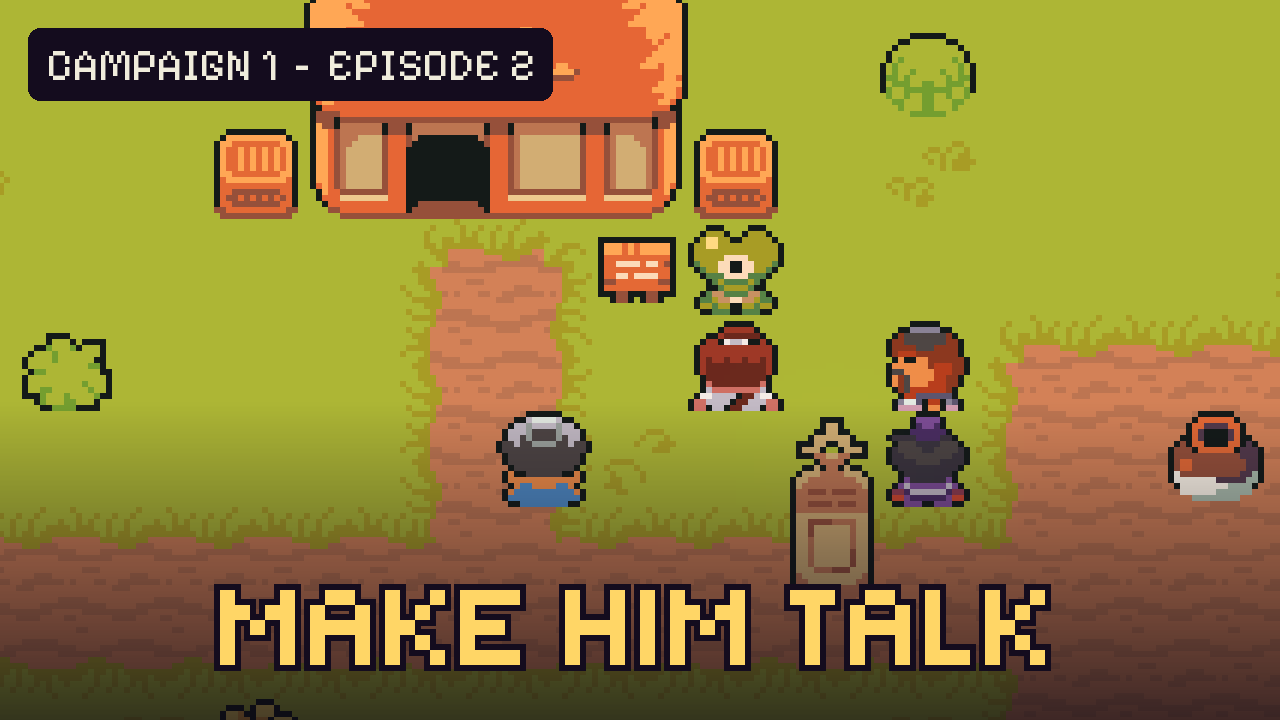
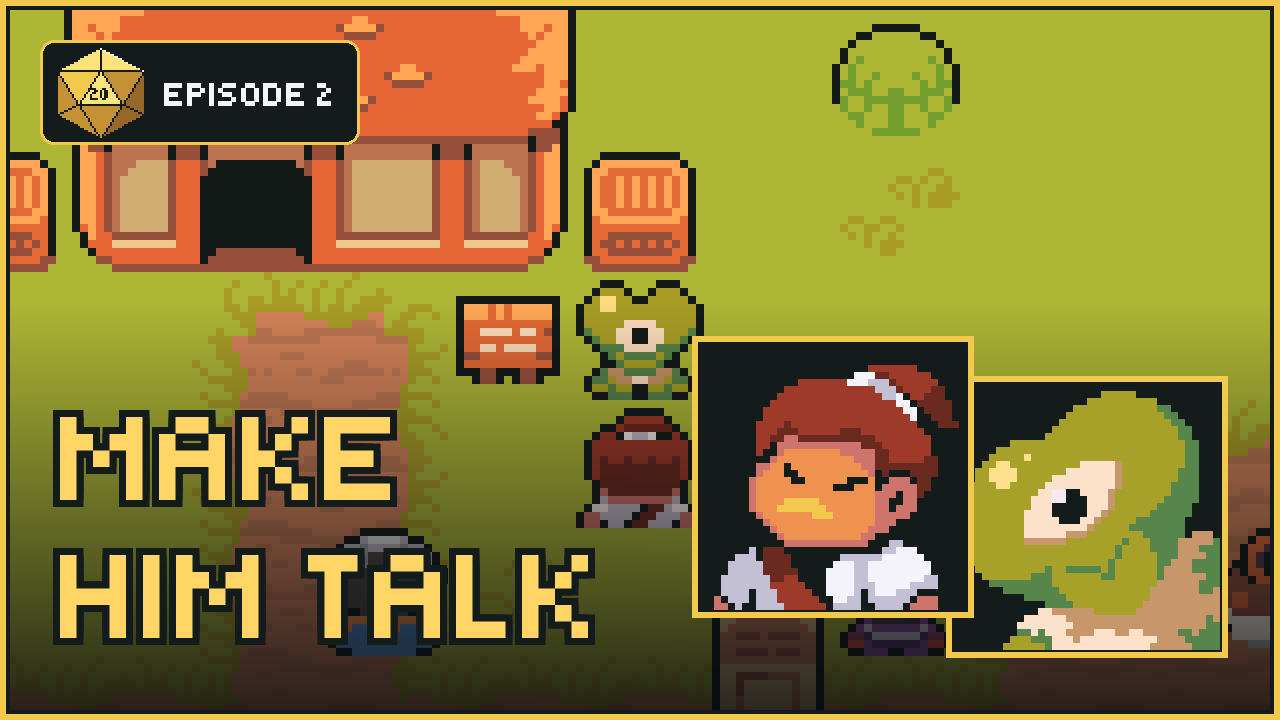
Thumbnails: zoomed scene, big portraits, channel badge; per-episode choices in assets/thumbnails
Claude-Session: https://claude.ai/code/session_01FnvpZbiPWMMNRDJyypsj8P

diff --git a/pqc/pipeline/packaging.py b/pqc/pipeline/packaging.py
@@ -6,6 +6,7 @@ the timeline, the seed and the dice-verification line, and the licence credits.
 """
 from __future__ import annotations
 
+import json
 from pathlib import Path
 
 from ..state import ROOT
@@ -78,14 +79,50 @@ def thumbnail_time(moment: str | None, timeline: dict, cue_times: list[float], p
     return cue_times[len(cue_times) // 2]
 
 
-def render_thumbnail(timeline: dict, t: float, text: str, episode_label: str, out: Path, assets=None) -> Path:
-    """Render the frame at ``t``, upscale to 1280x720 and add the title text."""
+THUMB_SPECS = ROOT / "assets" / "thumbnails"
+
+
+def thumbnail_spec(episode_id: str) -> dict:
+    """Hand-tuned choices for an episode's thumbnail (assets/thumbnails/c01.json):
+    ``text`` (overrides the packager's), ``faces`` (actor ids whose portraits are shown),
+    ``focus`` (actor the scene zooms on) and ``t`` (frame time, overrides the moment)."""
+    f = THUMB_SPECS / f"{episode_id[:3].lower()}.json"
+    if not f.exists():
+        return {}
+    return json.loads(f.read_text()).get(episode_id, {})
+
+
+def _split_title(d, text: str, font, width: int) -> list[str]:
+    words = text.split()
+    if d.textlength(text, font=font) <= width or len(words) < 2:
+        return [text]
+    best = None
+    for k in range(1, len(words)):
+        a, b = " ".join(words[:k]), " ".join(words[k:])
+        wa, wb = d.textlength(a, font=font), d.textlength(b, font=font)
+        if wa <= width and wb <= width:
+            score = abs(wa - wb)
+            if best is None or score < best[0]:
+                best = (score, [a, b])
+    return best[1] if best else [text]
+
+
+def render_thumbnail(timeline: dict, t: float, text: str, episode_label: str, out: Path, assets=None,
+                     spec: dict | None = None) -> Path:
+    """1280x720 thumbnail: the scene zoomed in on the moment, the episode's faces as big
+    portraits on the right, two to four big words bottom-left, and the channel badge."""
     from PIL import Image, ImageDraw
 
+    from ..render import brand
     from ..render.assets import Assets
     from ..render.timeline import Runner
+    from ..render.ui import draw_text
 
     assets = assets or Assets()
+    spec = spec or {}
+    text = spec.get("text", text)
+    if "t" in spec:
+        t = float(spec["t"])
     r = Runner(timeline, assets)
     target = int(t * r.stage.fps)
     frame = None
@@ -95,28 +132,75 @@ def render_thumbnail(timeline: dict, t: float, text: str, episode_label: str, ou
             break
     if frame is None:
         frame = r.stage.render(clean=True)
-    img = frame.convert("RGB").resize((1440, 810), Image.NEAREST).crop((80, 45, 1360, 765))
-    # Darken the lower third for the text.
+    st = r.stage
+    # Zoom: a 320x180 window of the 480x270 canvas around the focus, scaled 4x.
+    fx, fy = 240, 135
+    focus = spec.get("focus")
+    if focus in st.actors and st.actors[focus].visible:
+        cx, cy = st._camera()
+        fx, fy = (st.actors[focus].x - cx) * 2, (st.actors[focus].y - cy) * 2 - 10
+    x0 = int(min(max(fx - 160, 0), 480 - 320))
+    y0 = int(min(max(fy - 90, 0), 270 - 180))
+    img = frame.convert("RGBA").crop((x0, y0, x0 + 320, y0 + 180)).resize((1280, 720), Image.NEAREST)
+    # Shade: darker to the bottom-left so the text reads, and a thin frame.
     shade = Image.new("RGBA", img.size, (0, 0, 0, 0))
     d = ImageDraw.Draw(shade)
-    for y in range(400, 720):
-        d.line([(0, y), (1280, y)], fill=(10, 8, 20, int(190 * (y - 400) / 320)))
-    img = Image.alpha_composite(img.convert("RGBA"), shade)
+    for y in range(300, 720):
+        d.line([(0, y), (1280, y)], fill=(8, 10, 14, int(215 * (y - 300) / 420)))
+    img.alpha_composite(shade)
     d = ImageDraw.Draw(img)
-    big = assets.font_at("title", 120)
-    small = assets.font_at("text", 44)
+    d.rectangle((0, 0, 1279, 719), outline=brand.MID, width=6)
+    d.rectangle((6, 6, 1273, 713), outline=(20, 27, 27, 255), width=4)
+    # Portraits on the right.
+    faces = spec.get("faces", [])
+    px = 1280 - 60
+    fs = 7
+    for k, who in enumerate(reversed(faces)):
+        try:
+            face = assets.actor(who).faceset
+        except Exception:
+            face = None
+        if face is None:
+            continue
+        big = face.resize((38 * fs, 38 * fs), Image.NEAREST)
+        w = big.width
+        px -= w
+        py = 720 - w - 70 if len(faces) == 1 else 720 - w - 70 - (0 if k == 0 else 40)
+        if k:
+            px += 36
+        card = Image.new("RGBA", (w + 16, w + 16), (20, 27, 27, 255))
+        ImageDraw.Draw(card).rectangle((0, 0, w + 15, w + 15), outline=brand.MID, width=6)
+        card.alpha_composite(big, (8, 8))
+        img.alpha_composite(card, (px - 8, py - 8))
+        px -= 24
+    text_right = (px - 40) if faces else 1220
+    # Title: up to two lines of big gold letters with an ink outline.
     words = text.upper()
-    w = d.textlength(words, font=big)
-    if w > 1180:
-        big = assets.font_at("title", int(120 * 1180 / w))
-        w = d.textlength(words, font=big)
-    x, y = (1280 - w) / 2, 560
-    for dx in range(-6, 7, 3):
-        for dy in range(-6, 7, 3):
-            d.text((x + dx, y + dy), words, font=big, fill=(20, 12, 30))
-    d.text((x, y), words, font=big, fill=(255, 214, 102))
-    d.rounded_rectangle([28, 28, 28 + d.textlength(episode_label, font=small) + 36, 100], 12, fill=(20, 12, 30, 230))
-    d.text((46, 38), episode_label, font=small, fill=(240, 236, 220))
+    size = 132
+    while True:
+        big = assets.font_at("title", size)
+        lines = _split_title(d, words, big, text_right - 60)
+        if all(d.textlength(l, font=big) <= text_right - 60 for l in lines) or size <= 64:
+            break
+        size -= 8
+    lh = int(size * 1.05)
+    y = 720 - 60 - lh * len(lines)
+    for line in lines:
+        x = 60
+        for dx in range(-7, 8, 7):
+            for dy in range(-7, 8, 7):
+                d.text((x + dx, y + dy), line, font=big, fill=(20, 27, 27))
+        d.text((x, y), line, font=big, fill=(255, 214, 102))
+        y += lh
+    # Channel badge: the d20 mark and the episode number.
+    mark = brand.d20_mark(assets, 2)
+    small = assets.font_at("title", 36)
+    label = episode_label.split("-")[-1].strip() if "EPISODE" in episode_label else episode_label
+    lw = d.textlength(label, font=small)
+    d.rounded_rectangle((40, 40, 40 + mark.width + 24 + lw + 28, 40 + mark.height + 8), 14, fill=(20, 27, 27, 235),
+                        outline=brand.MID, width=3)
+    img.alpha_composite(mark, (52, 44))
+    draw_text(d, (52 + mark.width + 16, 44 + (mark.height - 36) // 2), label, small, (244, 242, 250, 255))
     out.parent.mkdir(parents=True, exist_ok=True)
     img.convert("RGB").save(out)
     return out

diff --git a/pqc/pipeline/episode.py b/pqc/pipeline/episode.py
@@ -227,7 +227,7 @@ def run_episode(cfg: EpisodeConfig, log=print) -> dict:
     # 5. Measure, render ----------------------------------------------------
     from ..render.assets import Assets
     from ..render.timeline import Runner
-    from .packaging import chapters, full_description, render_thumbnail, thumbnail_time
+    from .packaging import chapters, full_description, render_thumbnail, thumbnail_spec, thumbnail_time
     assets = Assets()
     runner = Runner(tl, assets)
     duration = runner.duration()
@@ -296,7 +296,7 @@ def run_episode(cfg: EpisodeConfig, log=print) -> dict:
     save_json(out / "packaging.json", pk_full)
     t_thumb = thumbnail_time(pk.get("thumbnail_moment"), tl, runner.cue_times, plan)
     render_thumbnail(tl, t_thumb, pk["thumbnail_text"], f"CAMPAIGN {cfg.campaign}  -  EPISODE {cfg.episode}", out / "thumbnail.png",
-                     assets)
+                     assets, spec=thumbnail_spec(record["id"]))
 
     # 8. Archive, cost, state, wiki ---------------------------------------------
     save_json(out / "episode.json", record)

diff --git a/tests/test_pipeline.py b/tests/test_pipeline.py
@@ -618,3 +618,19 @@ class TestBrand(unittest.TestCase):
         self.assertEqual(len(frames), 126)
         self.assertEqual(frames[0].size, (480, 270))
         self.assertEqual(len(list(br.outro_frames(a, (270, 480)))), 90)
+
+
+class TestThumbnailSpec(unittest.TestCase):
+    def test_specs_name_real_actors_and_split_titles(self):
+        from pqc.pipeline.packaging import _split_title, thumbnail_spec
+        from PIL import Image, ImageDraw, ImageFont
+        d = ImageDraw.Draw(Image.new("RGB", (10, 10)))
+        f = ImageFont.load_default()
+        self.assertEqual(_split_title(d, "RUN!", f, 1000), ["RUN!"])
+        self.assertEqual(_split_title(d, "THE LIGHT WAS TAKEN", f, 70), ["THE LIGHT", "WAS TAKEN"])
+        manifest = load_json(ROOT / "assets" / "manifest.json")["actors"]
+        for n in range(1, 11):
+            spec = thumbnail_spec(f"C01-E{n:03d}")
+            self.assertTrue(spec.get("text"))
+            for who in spec.get("faces", []) + [spec.get("focus")]:
+                self.assertIn(who, manifest, who)

diff --git a/scripts/release_episodes.py b/scripts/release_episodes.py
@@ -45,7 +45,7 @@ def main() -> int:
         camp, ep = int(eid[1:3]), int(eid[-3:])
         if (camp, ep) > reached or not (d / "timeline.json").exists() or not (d / "packaging.json").exists():
             continue
-        digest = hashlib.sha256((d / "timeline.json").read_bytes()).hexdigest()
+        digest = hashlib.sha256((d / "timeline.json").read_bytes() + (d / "thumbnail.png").read_bytes()).hexdigest()
         have = release_state(eid)
         if have == digest:
             continue
